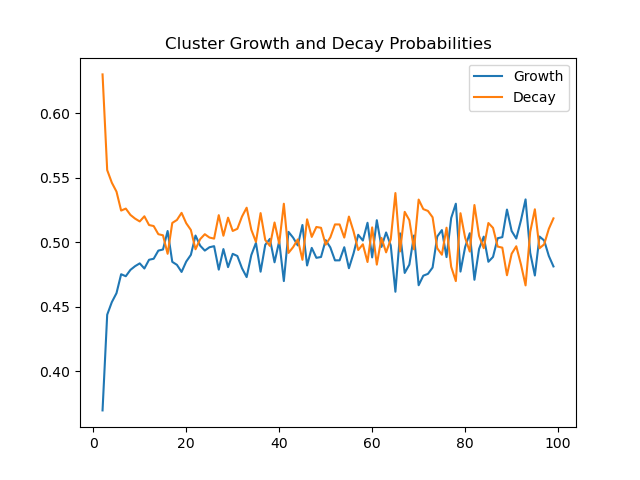
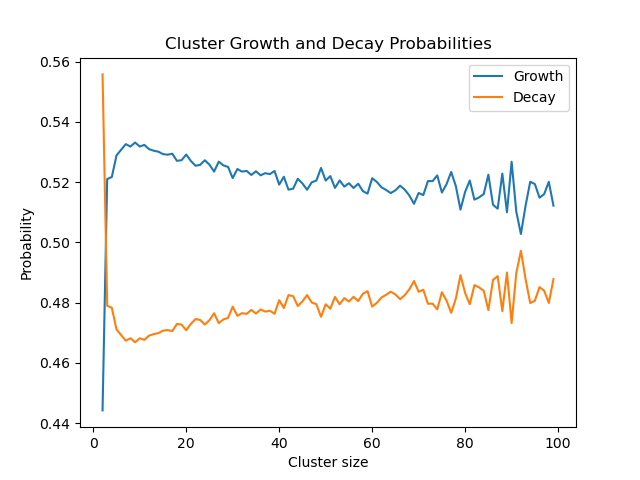
Parallelized analyze_rates.py and size-optimized TDP

diff --git a/analyze_rates.py b/analyze_rates.py
@@ -1,39 +1,89 @@
 from matplotlib import pyplot as plt
+from multiprocessing import Pool
 from utils import load_automaton_data
+
+
+def get_sizes(model_name, simulation_index):
+    growth_sizes, decay_sizes = [], []
+    automaton_data = load_automaton_data(model_name, simulation_index, "cluster")
+    cluster_data, info = automaton_data["cluster_data"], automaton_data["info"]
+
+    for update in cluster_data:
+        if update is None:
+            continue
+        elif update["type"] == "growth":
+            growth_sizes.append(update["size"])
+        elif update["type"] == "decay":
+            decay_sizes.append(update["size"])
+
+    data = {"growth": growth_sizes, "decay": decay_sizes}
+    return data
+
+
+def get_cluster_dynamics(growth_sizes, decay_sizes, size):
+    growth_probability, decay_probability = 0, 0
+
+    num_growths = growth_sizes.count(size)
+    num_decays = decay_sizes.count(size)
+    total_events = num_growths + num_decays
+
+    if total_events != 0:
+        growth_probability = num_growths / total_events
+        decay_probability = num_decays / total_events
+    
+    data = {"growth": growth_probability, "decay": decay_probability}
+    return data
 
 
 def analyze_rates(model_name, simulation_indices, plot_name='rates.png'):
     growth_sizes = []
     decay_sizes = []
 
-    for i, simulation_index in enumerate(simulation_indices):
-        print(f"Analyzing simulation {i + 1} of {len(simulation_indices)}")
-        automaton_data = load_automaton_data(model_name, simulation_index, "cluster")
-        cluster_data, info = automaton_data["cluster_data"], automaton_data["info"]
+    # multiprocessing code    
+    with Pool(len(simulation_indices)) as p:
+        size_data = p.starmap(get_sizes, [(model_name, i) for i in simulation_indices])
 
-        for update in cluster_data:
-            if update is None:
-                continue
-            elif update["type"] == "growth":
-                growth_sizes.append(update["size"])
-            elif update["type"] == "decay":
-                decay_sizes.append(update["size"])
+    for d in size_data:
+        growth_sizes.extend(d["growth"])
+        decay_sizes.extend(d["decay"])
 
     sizes = list(range(2, 100))
-    growth_probabilities = []
-    decay_probabilities = []
+    with Pool(len(simulation_indices)) as p:
+        cluster_data = p.starmap(get_cluster_dynamics, [(growth_sizes, decay_sizes, size) for size in sizes])
 
-    for size in sizes:
-        num_growths = growth_sizes.count(size)
-        num_decays = decay_sizes.count(size)
-        total_events = num_growths + num_decays
+    growth_probabilities = [d["growth"] for d in cluster_data]
+    decay_probabilities = [d["decay"] for d in cluster_data]
 
-        if total_events != 0:
-            growth_probabilities.append(num_growths / total_events)
-            decay_probabilities.append(num_decays / total_events)
-        else:
-            growth_probabilities.append(0)
-            decay_probabilities.append(0)
+    # single threaded code
+    # for i, simulation_index in enumerate(simulation_indices):
+    #     print(f"Analyzing simulation {i + 1} of {len(simulation_indices)}")
+    #     automaton_data = load_automaton_data(model_name, simulation_index, "cluster")
+    #     cluster_data, info = automaton_data["cluster_data"], automaton_data["info"]
+
+    #     for update in cluster_data:
+    #         if update is None:
+    #             continue
+    #         elif update["type"] == "growth":
+    #             growth_sizes.append(update["size"])
+    #         elif update["type"] == "decay":
+    #             decay_sizes.append(update["size"])
+
+    # sizes = list(range(2, 100))
+    # growth_probabilities = []
+    # decay_probabilities = []
+
+    # for i, size in enumerate(sizes):
+    #     print(f"Calculating cluster dynamics for size {i + 1} of {len(sizes)}")
+    #     num_growths = growth_sizes.count(size)
+    #     num_decays = decay_sizes.count(size)
+    #     total_events = num_growths + num_decays
+
+    #     if total_events != 0:
+    #         growth_probabilities.append(num_growths / total_events)
+    #         decay_probabilities.append(num_decays / total_events)
+    #     else:
+    #         growth_probabilities.append(0)
+    #         decay_probabilities.append(0)
 
     print("Growth probabilities:")
     for i, prob in enumerate(growth_probabilities):
@@ -49,4 +99,4 @@ def analyze_rates(model_name, simulation_indices, plot_name='rates.png'):
 
 
 if __name__ == '__main__':
-    analyze_rates("tricritical", range(1))
+    analyze_rates("tricritical", range(6))

diff --git a/models/tricritical/in_place_processing.py b/models/tricritical/in_place_processing.py
@@ -130,7 +130,7 @@ def simulate(data):
                 status = get_cluster_dynamics(old_lattice, new_lattice, changed_coords)
                 cluster_data.append(status)
 
-        if save_series:
+        if save_series and (i % (length * length)) == 0:
             series_data.append(copy(new_lattice))
 
         if simulation_index == 0:
@@ -199,4 +199,4 @@ def tricritical(p_ext = 0.5, q_ext = 0.5, num_parallel = 10, save_series = False
 
 
 if __name__ == '__main__':
-    print(tricritical(0.4, 0.92, 8, save_series=False, save_cluster=True))
+    print(tricritical(0.4, 0.92, 6, save_series=False, save_cluster=True))

diff --git a/terminal.py b/terminal.py
@@ -21,6 +21,5 @@ from utils import load_automaton_data
 
 if __name__ == '__main__':
     purge_data()
-    num_simulations = 48
-    tricritical(0.65, 0.0, num_simulations, save_series=False, save_cluster=True)
-    analyze_rates("tricritical", range(num_simulations), "0p65.png")
+    num_simulations = 1
+    tricritical(0.65, 0.0, num_simulations, save_series=True, save_cluster=False)
